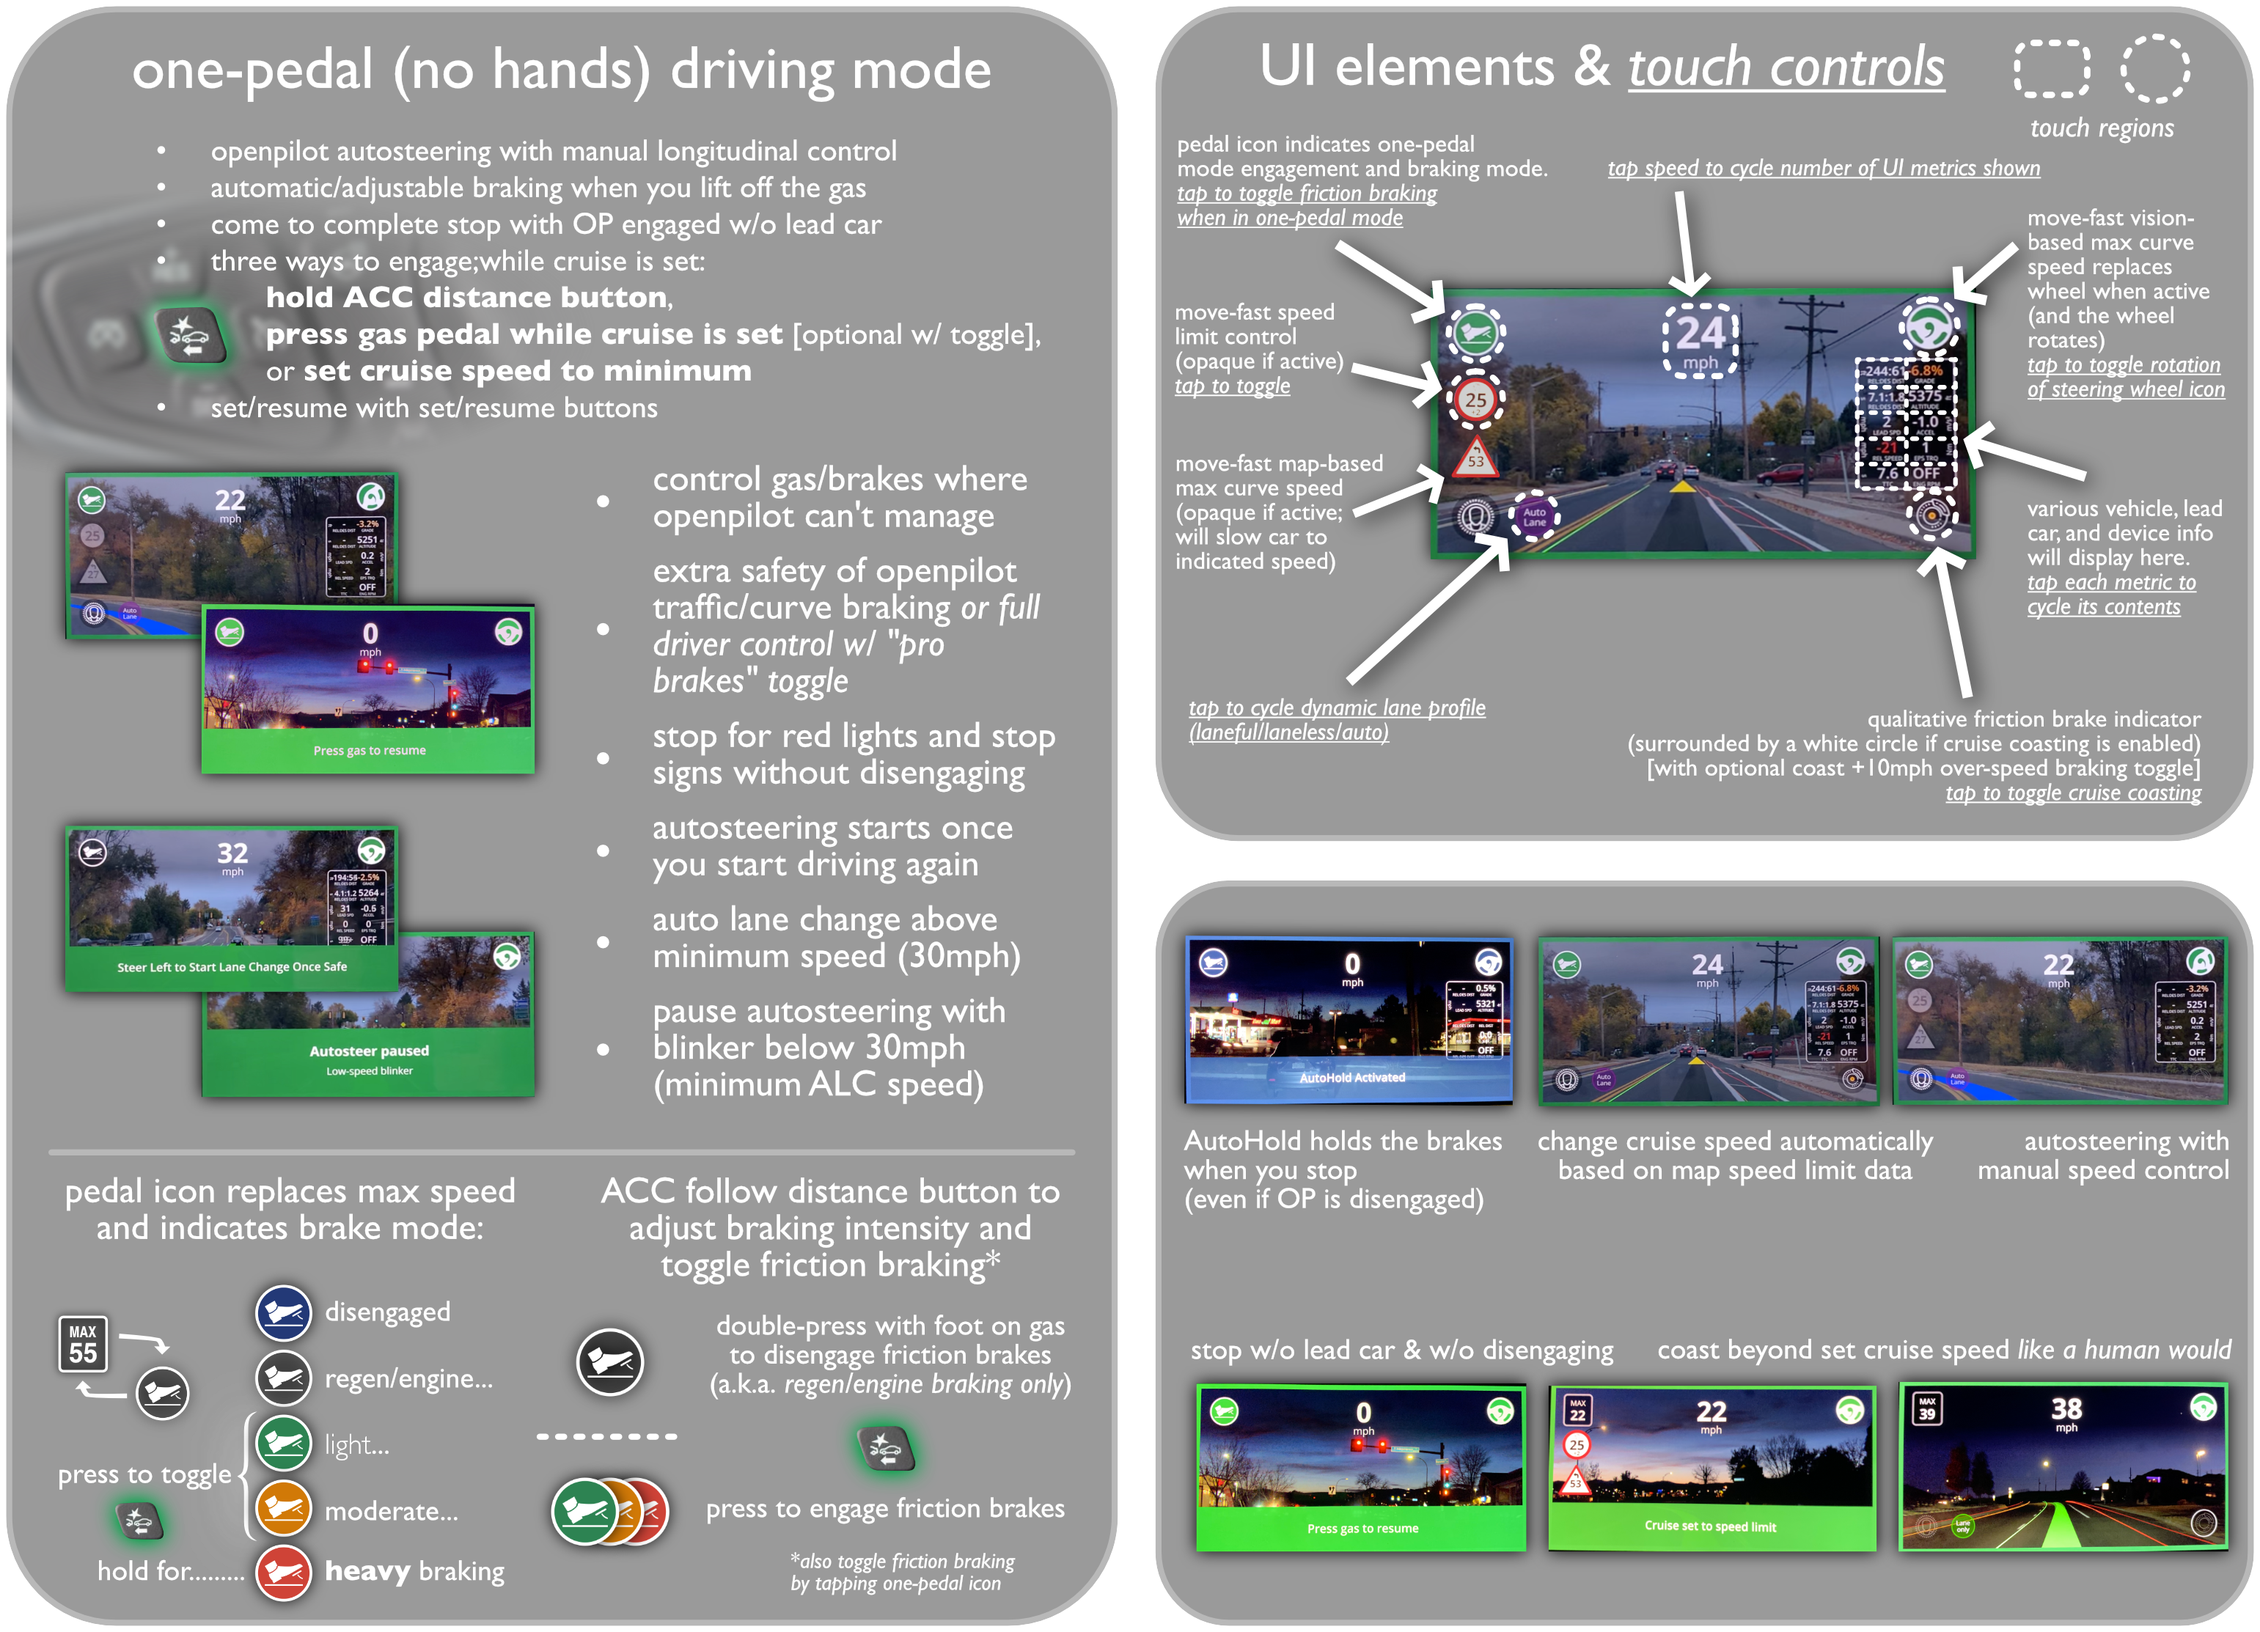
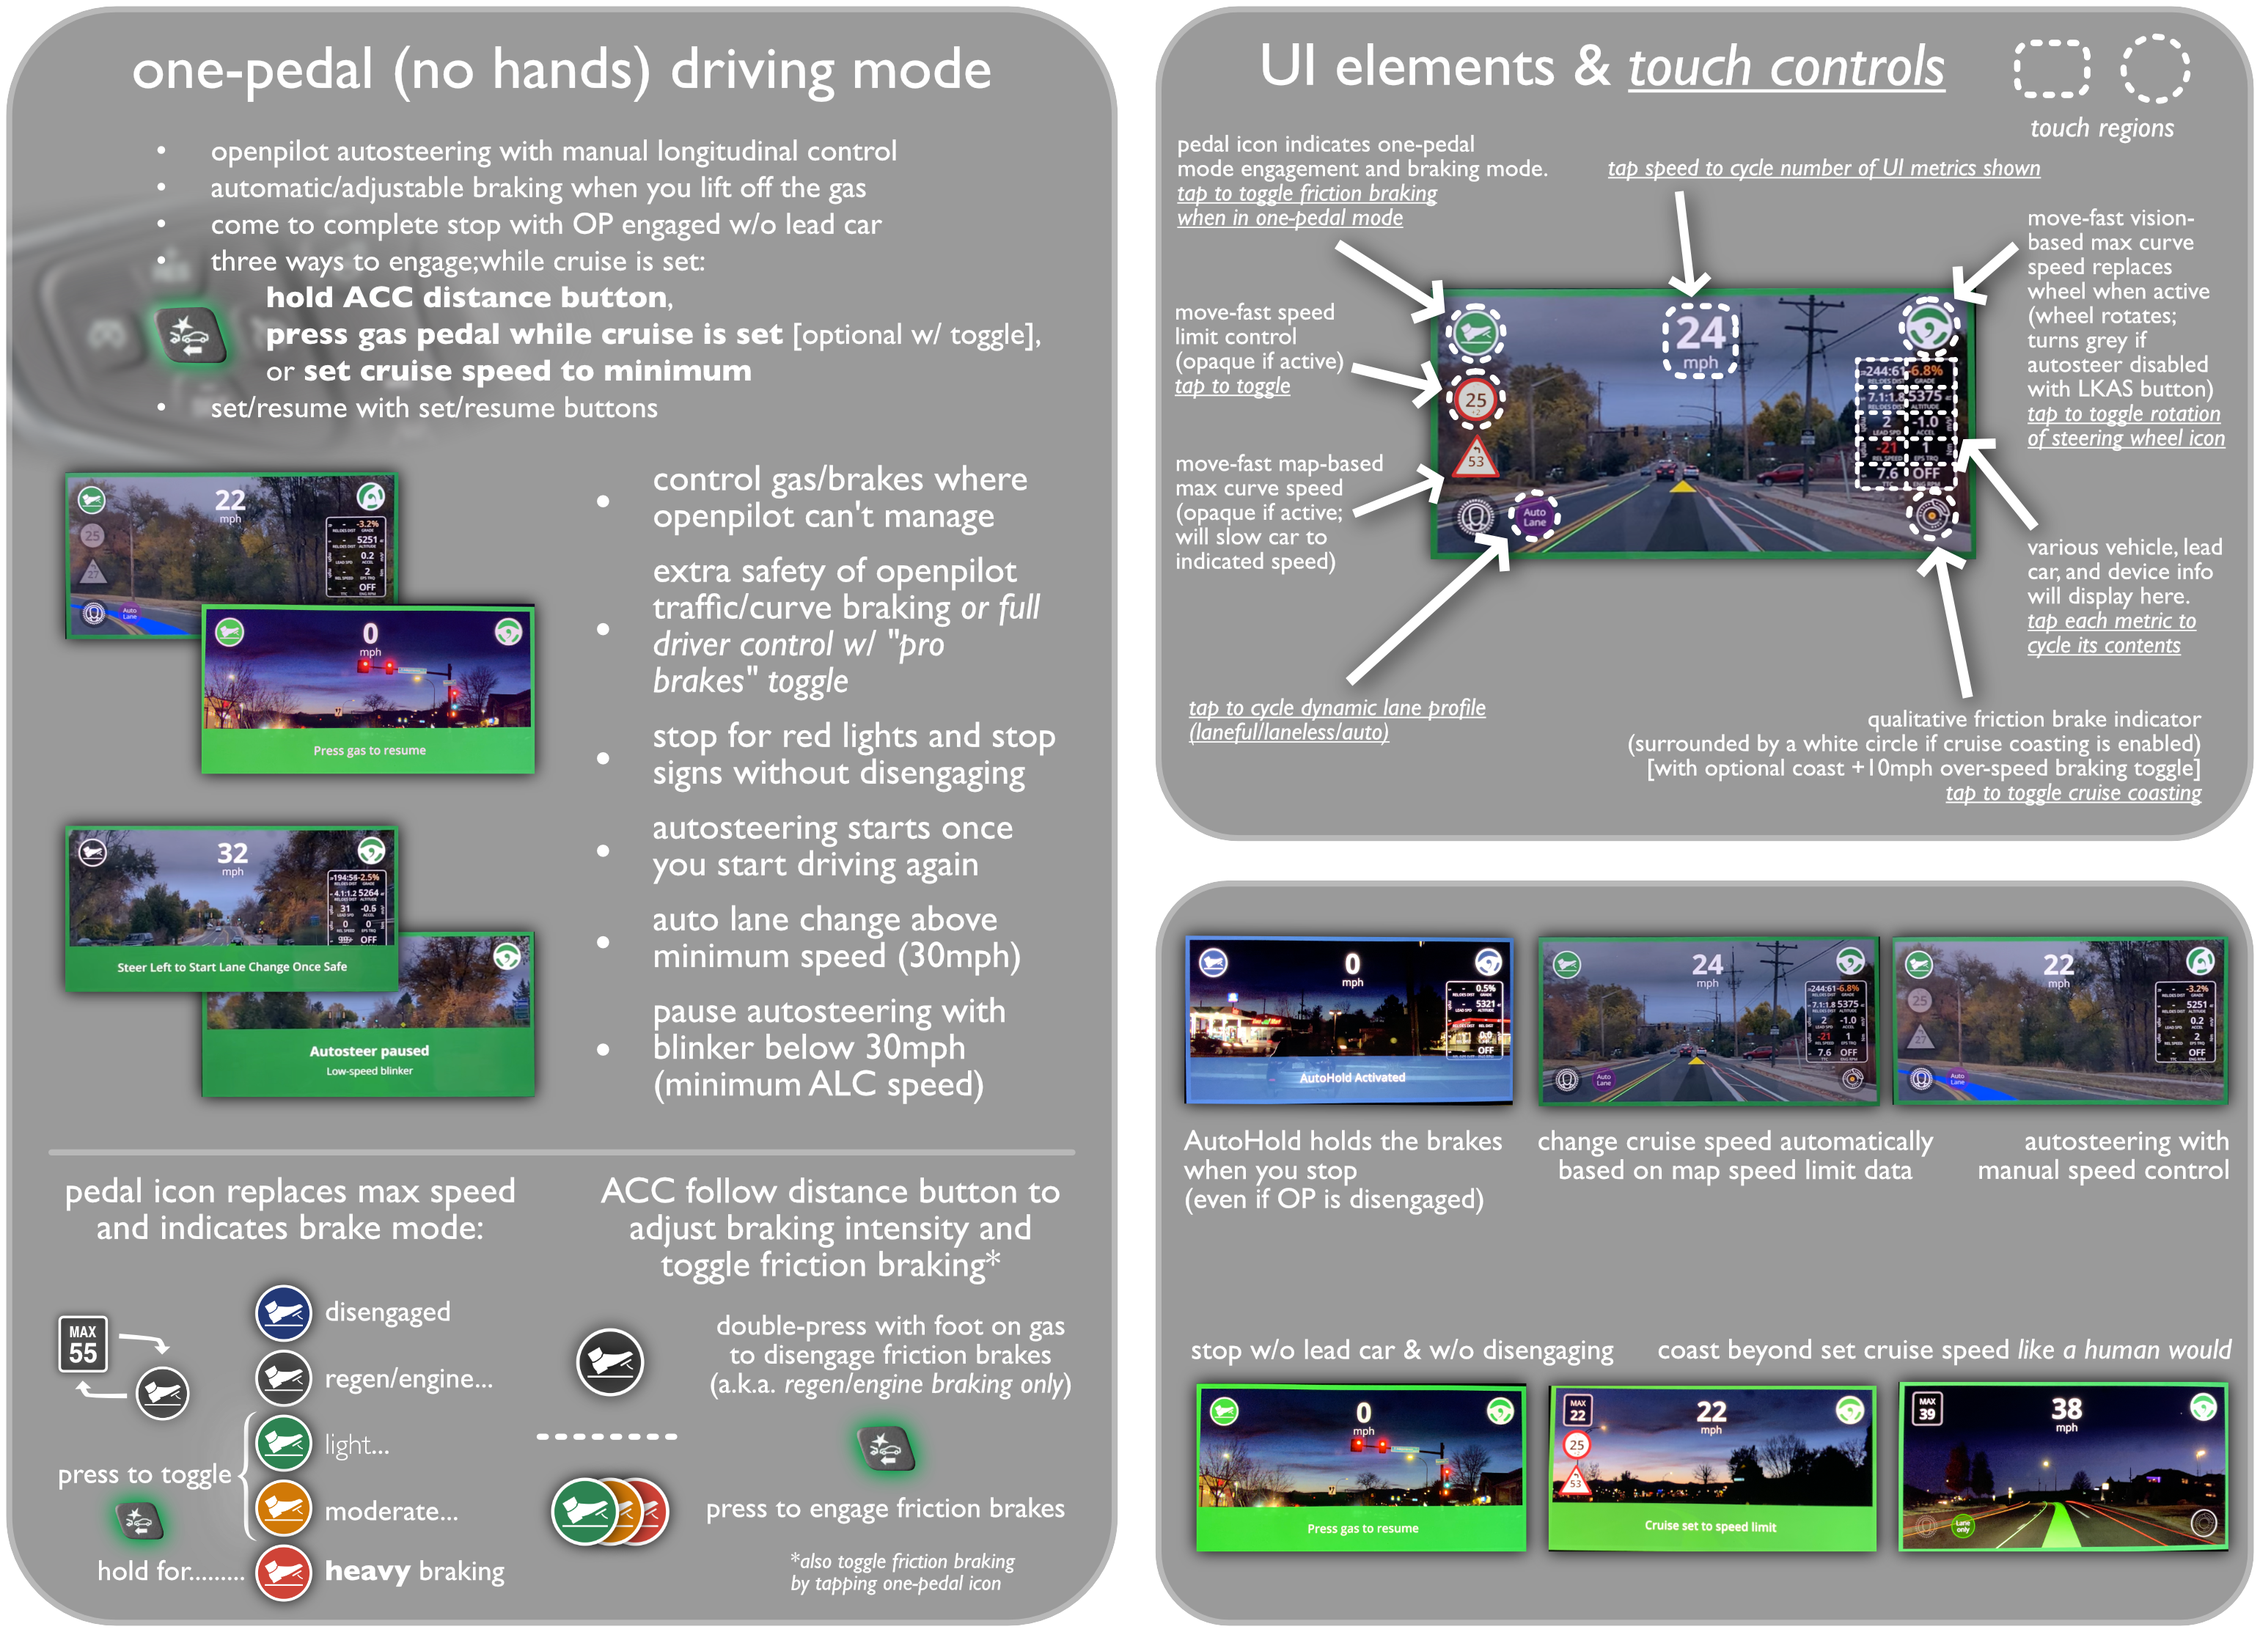
add follow gap metric

Changed region(s): [[0.8722, 0.186, 0.9968, 0.403]]

diff --git a/selfdrive/ui/paint.cc b/selfdrive/ui/paint.cc
@@ -415,7 +415,7 @@ static void ui_draw_measures(UIState *s){
     int default_unit_font_size = 38;
   
     // determine bounding rectangle
-    const int slots_r = brake_size + 10 + (s->scene.measure_cur_num_slots <= 5 ? 6 : 0);
+    const int slots_r = brake_size + 6 + (s->scene.measure_cur_num_slots <= 5 ? 6 : 0);
     const int slots_w = (s->scene.measure_cur_num_slots <= 5 ? 2 : 4) * slots_r;
     const int slots_x = (s->scene.measure_cur_num_slots <= 5 ? center_x - slots_r : center_x - 3 * slots_r);
     const Rect slots_rect = {slots_x, slots_y_min, slots_w, slots_y_rng};
@@ -888,6 +888,31 @@ static void ui_draw_measures(UIState *s){
           }}
           break;
 
+        case UIMeasure::FOLLOW_LEVEL: 
+          {
+            std::string gap;
+            snprintf(name, sizeof(name), "GAP");
+            switch (int(scene.car_state.getReaddistancelines())){
+              case 1:
+              gap =  "I";
+              break;
+              
+              case 2:
+              gap =  "I I";
+              break;
+              
+              case 3:
+              gap =  "I I I";
+              break;
+              
+              default:
+              gap =  "";
+              break;
+            }
+            snprintf(val, sizeof(val), "%s", gap.c_str());
+          }
+          break;
+
         default: {// invalid number
           snprintf(name, sizeof(name), "INVALID");
           snprintf(val, sizeof(val), "⚠");}
@@ -910,6 +935,9 @@ static void ui_draw_measures(UIState *s){
       int slot_y = slots_rect.y + (i % 5) * slot_y_rng;
       int slot_y_mid = slot_y + slot_y_rng / 2;
       int y = slot_y_mid + slot_y_rng / 2 - 8 - label_font_size;
+      if (strlen(name) == 0){
+        y += label_font_size / 2;
+      }
       nvgFontFace(s->vg, "sans-semibold");
       nvgFontSize(s->vg, val_font_size);
       nvgFillColor(s->vg, val_color);

diff --git a/selfdrive/ui/ui.h b/selfdrive/ui/ui.h
@@ -149,6 +149,7 @@ typedef enum UIMeasure { //rearrange here to adjust order when cycling measures
   FANSPEED_PERCENT,
   MEMORY_USAGE_PERCENT,
   FREESPACE_STORAGE,
+  FOLLOW_LEVEL,
   
   NUM_MEASURES
 } UIMeasure;
